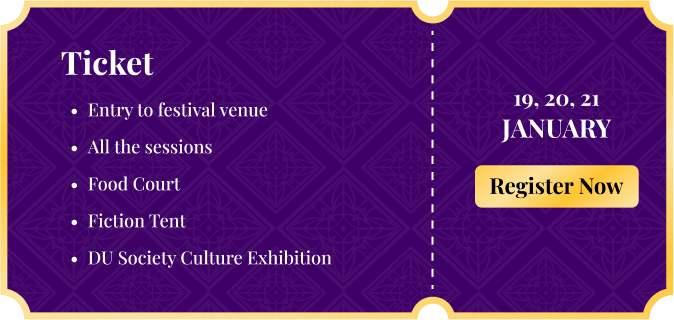
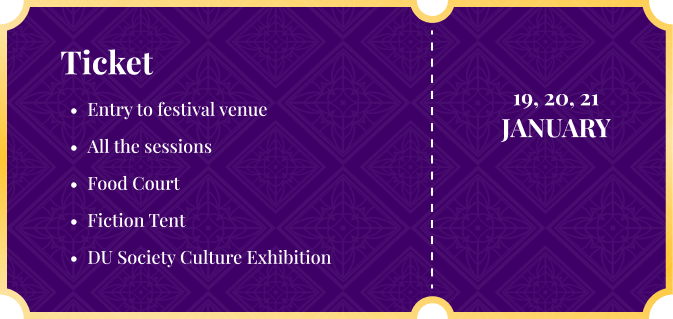
ticket button function working

diff --git a/src/Components/Ticket/Ticket.css b/src/Components/Ticket/Ticket.css
@@ -1,140 +1,184 @@
 .ticket {
-    border: 4px solid white;
-    border-radius: 15px;
-    padding: 20px 0px 0px 0px;
-    width: 350px;
-    margin: 50px auto;
-    position: relative;
-  }
-  
-  .ticket-top {
-    display: flex;
-    justify-content: space-between;
-    align-items: center;
-    margin-bottom: 20px;
-  }
-  
-  .logo-left,
-  .logo-right {
-    width: 50px;
-  }
-  
-  .ticket-text {
-    color: white;
-    text-align: center;
-  }
+  border: 4px solid white;
+  border-radius: 15px;
+  padding: 20px 0px 0px 0px;
+  width: 350px;
+  margin: 50px auto;
+  position: relative;
+}
 
-  .backii2 {
-    margin-top: -10px;
-  }
-  
-  .ticket-bottom {
-    /* background-color: #f9f9f9; */
-    /* padding: 20px; */
-    /* border-top: 2px solid #000; */
+.ticket-top {
+  display: flex;
+  justify-content: space-between;
+  align-items: center;
+  margin-bottom: 20px;
+}
 
-    color: white;
+.logo-left,
+.logo-right {
+  width: 50px;
+}
 
-    background: rgba( 255, 255, 255, 0.3 );
-box-shadow: 0 8px 32px 0 rgba( 31, 38, 135, 0.37 );
-backdrop-filter: blur( 2px );
--webkit-backdrop-filter: blur( 2px );
-/* border-radius: 10px; */
-border-bottom-left-radius: 10px;
-border-bottom-right-radius: 10px;
-border: 1px solid rgba( 255, 255, 255, 0.18 );
-    
-  }
-  .Ticketheading{
-    display: flex;
-    justify-content: center;
-    }
-    
-    .headticket {
-      margin: auto;
-      text-align: center;
-      font-size: 2rem;
-      margin-bottom:1%;
-      font-weight: 600;
-      padding: 0px 40px;
-      border: 5px solid white;
-      color: aliceblue;
-      width:fit-content;
-      margin-top: 4%;
-    }
+.ticket-text {
+  color: white;
+  text-align: center;
+}
+
+.backii2 {
+  margin-top: -10px;
+}
+
+.ticket-bottom {
+  /* background-color: #f9f9f9; */
+  /* padding: 20px; */
+  /* border-top: 2px solid #000; */
+
+  color: white;
+
+  background: rgba(255, 255, 255, 0.3);
+  box-shadow: 0 8px 32px 0 rgba(31, 38, 135, 0.37);
+  backdrop-filter: blur(2px);
+  -webkit-backdrop-filter: blur(2px);
+  /* border-radius: 10px; */
+  border-bottom-left-radius: 10px;
+  border-bottom-right-radius: 10px;
+  border: 1px solid rgba(255, 255, 255, 0.18);
+
+}
+
+.Ticketheading {
+  display: flex;
+  justify-content: center;
+}
+
+.headticket {
+  margin: auto;
+  text-align: center;
+  font-size: 2rem;
+  margin-bottom: 1%;
+  font-weight: 600;
+  padding: 0px 40px;
+  border: 5px solid white;
+  color: aliceblue;
+  width: fit-content;
+  margin-top: 4%;
+}
+
+.stamp {
+  position: absolute;
+  top: -16px;
+  left: -42px;
+  padding: 5px 10px;
+  background-color: #f44336;
+  /* Red color, change as per your design */
+  color: #fff;
+  border-radius: 5px;
+  font-size: 20px;
+  font-weight: bold;
+  transform: rotate(-28deg);
+}
+
+#ticket-ul {
+  list-style-type: none;
+  padding: 0;
+}
+
+.ticket-head {
+  font-size: 24px;
+  font-weight: bold;
+}
+
+.lii1 {
+  list-style-type: disc;
+  margin-bottom: 10px;
+  margin-left: 10px;
+}
+
+.registerr-button {
+  /* padding: 20px; */
+  text-align: center;
+}
+
+.rr-btn {
+  padding: 10px 20px;
+  background-color: #007bff;
+  color: #fff;
+  border: none;
+  border-radius: 5px;
+  cursor: pointer;
+}
+
+.details {
+  padding: 20px 20px 10px 20px;
+}
+
+.rr-btn:hover {
+  background-color: #0056b3;
+}
+
+#ticket-date {
+  text-align: center;
+  margin-top: 20px;
+  margin-bottom: 20px;
+  /* background-color: rgb(210, 210, 208); */
+  background: rgba(255, 255, 255, 0.1);
+  box-shadow: 0 8px 32px 0 rgba(31, 38, 135, 0.37);
+  backdrop-filter: blur(2.5px);
+  -webkit-backdrop-filter: blur(2.5px);
+
+}
+
+.jjj {
+  text-decoration: underline;
+}
+
+.DesktopTicketSection {
+  position: relative;
+}
+
+.DesktopTicketButton {
+  position: absolute;
+  left: 70%;
+  top: 60%;
+}
+
+.MobileTicketSection {
+  position: relative;
+}
+
+.MobileTicketButton {
+  position: absolute;
+  left: 25%;
+  top: 84%;
+}
+
+@media screen and (max-width: 430px) {
   .stamp {
-    position: absolute;
-    top: -16px;
-    left: -42px;
-    padding: 5px 10px;
-    background-color: #f44336; /* Red color, change as per your design */
-    color: #fff;
-    border-radius: 5px;
-    font-size: 20px;
-    font-weight: bold;
-    transform: rotate(-28deg);
-  }
-  
-  #ticket-ul {
-    list-style-type: none;
-    padding: 0;
+    top: -22px;
+    left: 15px;
+    transform: rotate(0deg);
   }
 
-  .ticket-head {
-    font-size: 24px;
-    font-weight: bold;
-  }
-  
-  .lii1 {
-    list-style-type: disc;
-    margin-bottom: 10px;
-    margin-left: 10px;
-  }
-  
-  .registerr-button {
-    /* padding: 20px; */
-    text-align: center;
-  }
-  
-  .rr-btn {
-    padding: 10px 20px;
-    background-color: #007bff;
-    color: #fff;
-    border: none;
-    border-radius: 5px;
-    cursor: pointer;
+}
+
+@media screen and (max-width: 735px) {
+  .DesktopTicketButton img {
+    width: 85%;
   }
 
-  .details{
-    padding: 20px 20px 10px 20px;
-  }
-  
-  .rr-btn:hover {
-    background-color: #0056b3;
-  }
+}
 
-  #ticket-date {
-    text-align: center;
-    margin-top: 20px;
-    margin-bottom: 20px;
-    /* background-color: rgb(210, 210, 208); */
-    background: rgba( 255, 255, 255, 0.1 );
-box-shadow: 0 8px 32px 0 rgba( 31, 38, 135, 0.37 );
-backdrop-filter: blur( 2.5px );
--webkit-backdrop-filter: blur( 2.5px );
+@media screen and (max-width: 430px) {
+  .MobileTicketButton img {
+    width: 88%;
+
+  }
+}
+
+@media screen and (max-width: 387px) {
+  .MobileTicketButton img {
+    width: 76%;
 
   }
 
-  .jjj {
-    text-decoration: underline;
-  }
-
-  @media screen and (max-width: 430px) {
-    .stamp {
-        top: -22px;
-        left: 15px;
-        transform: rotate(0deg);
-      }
- 
- }
-  
+}

diff --git a/src/Components/Ticket/Ticket.jsx b/src/Components/Ticket/Ticket.jsx
@@ -7,6 +7,8 @@ import passheading from "./passheading.png";
 import SectionHeader from "../../Components/SectionHeader/SectionHeader";
 import mobileticket from "/assets/images/ticketmobile.png";
 import desktopticket from "/assets/images/ticketdesktop.png";
+import ticketButton from "/assets/images/ticketButton.png"
+import { Link } from "react-router-dom";
 
 const Ticket = () => {
   const handleRegisterClick = () => {
@@ -83,9 +85,15 @@ const Ticket = () => {
       <div className="TicketSection flex flex-col justify-center items-center m-16">
         <div className="DesktopTicketSection">
           <img src={desktopticket} alt="mobile ticket" />
+          <div className="DesktopTicketButton">
+            <Link to="/register"><img src={ticketButton} alt="button ticket" /></Link>
+          </div>
         </div>
         <div className="MobileTicketSection">
           <img src={mobileticket} alt="desktop ticket" />
+          <div className="MobileTicketButton">
+            <Link to="/register"><img src={ticketButton} alt="button ticket mobile" /></Link>
+          </div>
         </div>
       </div>
     </>
